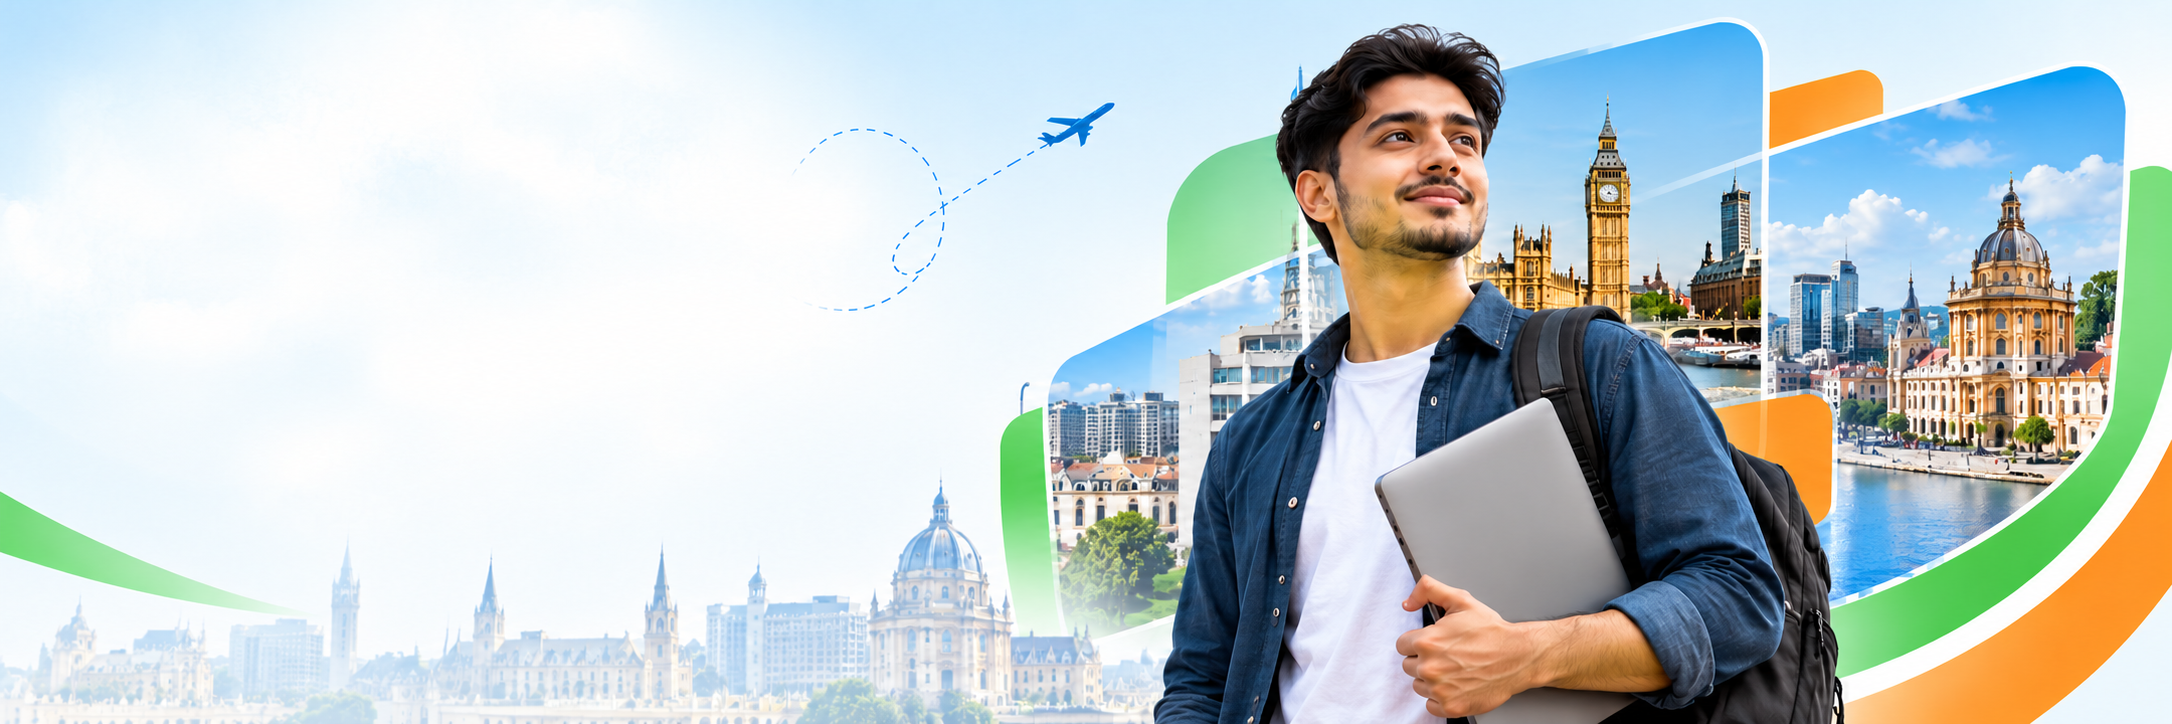
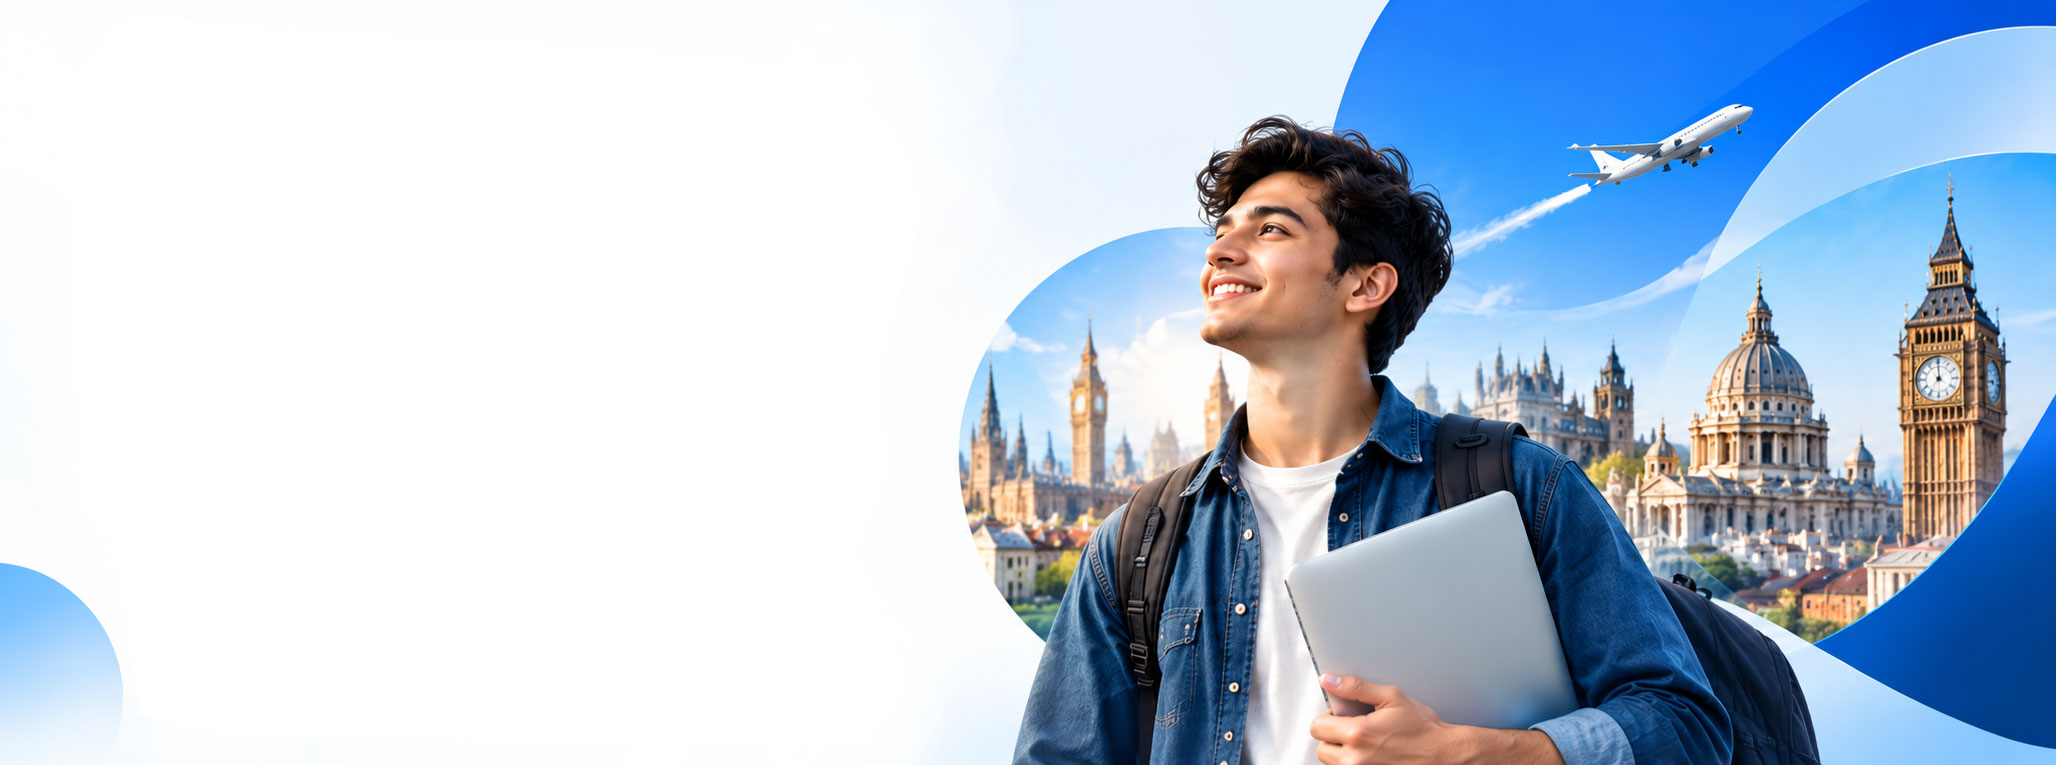
feat: Revamp Dream Destinations section UI
Refactor the Dream Destinations component to enhance its visual appeal and user experience. This includes:
- Updating the grid layout for better responsiveness across various screen sizes (2, 3, 4, and 6 columns).
- Improving the styling of individual destination cards by changing them from a div with a nested link to a direct Link component.
- Adjusting image sizing and hover effects for a more dynamic feel.
- Modifying text colors and shadow properties to align with the new design.
- Replacing the placeholder `Hero.png` with a more appropriate image in the public directory to reflect the new design.
- Introducing a new gradient overlay for destination cards for improved readability of text on images.
- Removing the "View Courses" button to simplify the card design and focus on the destination itself.

diff --git a/src/components/common/DreamDestinations.tsx b/src/components/common/DreamDestinations.tsx
@@ -131,72 +131,63 @@ export default function DreamDestinations() {
           </Link>
         </div>
 
-        <div className="mt-10 grid grid-cols-1 gap-6 sm:grid-cols-2 lg:grid-cols-3">
+        <div className="mt-10 grid grid-cols-2 gap-4 sm:grid-cols-3 lg:grid-cols-4 xl:grid-cols-6">
           {destinations.map((destination) => (
-            <div
+            <Link
               key={destination.slug}
-              className="group flex flex-col overflow-hidden rounded-2xl border border-[#ECECEC] bg-white shadow-sm transition-shadow hover:shadow-md"
+              href={`/countries/${destination.slug}`}
+              title={destination.description}
+              className="group relative block aspect-[4/3] overflow-hidden rounded-2xl shadow-sm transition-shadow hover:shadow-lg"
             >
-              <Link
-                href={`/countries/${destination.slug}`}
-                className="relative block aspect-[16/10] w-full overflow-hidden"
-              >
-                <Image
-                  src={destination.image}
-                  alt={`Study in ${destination.name}`}
-                  fill
-                  sizes="(max-width: 640px) 100vw, (max-width: 1024px) 50vw, 33vw"
-                  className="object-cover transition-transform duration-500 ease-out group-hover:scale-110"
-                />
-                <div className="absolute inset-0 bg-gradient-to-t from-black/60 via-black/10 to-transparent" />
-                <span className="absolute bottom-3 left-4 flex items-center gap-2.5 text-sm font-semibold text-white sm:text-base">
-                  <span className="flex overflow-hidden rounded-[4px] shadow-md ring-2 ring-white/80">
-                    <ReactCountryFlag
-                      countryCode={destination.flagCode}
-                      svg
-                      title={destination.name}
-                      aria-label={`Flag of ${destination.name}`}
-                      style={{
-                        width: "1.75em",
-                        height: "1.3em",
-                        display: "block",
-                        objectFit: "cover",
-                      }}
-                    />
-                  </span>
-                  {destination.name}
+              <Image
+                src={destination.image}
+                alt={`Study in ${destination.name}`}
+                fill
+                sizes="(max-width: 640px) 50vw, (max-width: 1024px) 33vw, (max-width: 1280px) 25vw, 17vw"
+                className="object-cover transition-transform duration-500 ease-out group-hover:scale-110"
+              />
+              <div className="absolute inset-0 bg-gradient-to-t from-[#0F1B3D]/80 via-[#0F1B3D]/10 to-transparent" />
+              <span className="absolute bottom-3 left-3 flex items-center gap-2 text-sm font-semibold text-white sm:text-base">
+                <span className="flex overflow-hidden rounded-[3px] shadow-md ring-1 ring-white/80">
+                  <ReactCountryFlag
+                    countryCode={destination.flagCode}
+                    svg
+                    title={destination.name}
+                    aria-label={`Flag of ${destination.name}`}
+                    style={{
+                      width: "1.5em",
+                      height: "1.1em",
+                      display: "block",
+                      objectFit: "cover",
+                    }}
+                  />
                 </span>
-              </Link>
-
-              <div className="flex flex-1 flex-col justify-between p-5">
-                <p className="text-sm leading-relaxed text-[#6B6B6B]">
-                  {destination.description}
-                </p>
-
-                <Link
-                  href={`/courses?destination=${destination.slug}`}
-                  className="mt-4 inline-flex w-fit items-center gap-1 text-sm font-semibold text-[#1366E0] transition-colors hover:text-[#1B1B1B]"
-                >
-                  View Courses
-                  <svg
-                    width="14"
-                    height="14"
-                    viewBox="0 0 24 24"
-                    fill="none"
-                    className="shrink-0"
-                  >
-                    <path
-                      d="M5 12h14M13 6l6 6-6 6"
-                      stroke="currentColor"
-                      strokeWidth="2"
-                      strokeLinecap="round"
-                      strokeLinejoin="round"
-                    />
-                  </svg>
-                </Link>
-              </div>
-            </div>
+                {destination.name}
+              </span>
+            </Link>
           ))}
+
+          <div className="col-span-full flex items-center justify-center gap-4 rounded-2xl bg-[#EEF5FE] px-6 py-6">
+            <svg
+              width="40"
+              height="40"
+              viewBox="0 0 24 24"
+              fill="none"
+              className="shrink-0 text-[#1366E0]"
+              aria-hidden
+            >
+              <circle cx="12" cy="12" r="9" stroke="currentColor" strokeWidth="1.6" />
+              <path
+                d="M3 12h18M12 3c2.5 2.5 3.8 5.5 3.8 9s-1.3 6.5-3.8 9c-2.5-2.5-3.8-5.5-3.8-9S9.5 5.5 12 3Z"
+                stroke="currentColor"
+                strokeWidth="1.6"
+                strokeLinejoin="round"
+              />
+            </svg>
+            <p className="text-base font-medium text-[#1366E0] sm:text-lg">
+              And expanding European and other destinations.
+            </p>
+          </div>
         </div>
       </div>
     </section>

diff --git a/src/views/home/HeroHome.tsx b/src/views/home/HeroHome.tsx
@@ -35,9 +35,10 @@ export default function HeroHome() {
           />
         </div>
 
-        {/* Text sits on the empty sky area on the left of the image */}
-        <div className="relative z-10 order-1 px-6 pt-14 pb-8 sm:px-10 lg:w-[46%] lg:py-14 lg:pl-[5%] lg:pr-0">
-          <div>
+        {/* Text sits on the empty sky area on the left of the image; same px-4 + container as the header so the left edges line up */}
+        <div className="relative z-10 order-1 w-full px-4 pt-14 pb-8 lg:py-14">
+          <div className="mx-auto container">
+          <div className="lg:max-w-[46%]">
             <h1 className="text-[2rem] font-bold leading-[1.15] tracking-tight text-[#0F1B3D] sm:text-5xl lg:text-[clamp(2rem,3vw,4rem)]">
               {headline.map((line, i) => (
                 <span
@@ -87,42 +88,6 @@ export default function HeroHome() {
               and personalised support to make global education more accessible.
             </p>
 
-            {/* Experience badge */}
-            <div
-              className="mt-6 inline-flex items-center gap-3 rounded-2xl border border-white/70 bg-white/70 px-4 py-3 shadow-md shadow-[#1366E0]/10 backdrop-blur-sm animate-[heroFadeUp_0.8s_ease-out_both] motion-reduce:animate-none lg:mt-[1.6vw]"
-              style={{ animationDelay: "600ms" }}>
-              <span className="grid h-11 w-11 shrink-0 place-items-center rounded-full bg-[#1366E0] text-white">
-                <svg
-                  width="22"
-                  height="22"
-                  viewBox="0 0 24 24"
-                  fill="none"
-                  aria-hidden>
-                  <circle
-                    cx="12"
-                    cy="9"
-                    r="6"
-                    stroke="currentColor"
-                    strokeWidth="2"
-                  />
-                  <path
-                    d="M8.5 13.5 7 22l5-3 5 3-1.5-8.5"
-                    stroke="currentColor"
-                    strokeWidth="2"
-                    strokeLinejoin="round"
-                  />
-                </svg>
-              </span>
-              <span className="leading-tight">
-                <span className="block text-2xl font-bold text-[#0F1B3D]">
-                  5+ Years
-                </span>
-                <span className="block text-sm font-medium text-[#3B4660]">
-                  Experience
-                </span>
-              </span>
-            </div>
-
             <div
               className="mt-7 flex flex-col gap-3 animate-[heroFadeUp_0.8s_ease-out_both] motion-reduce:animate-none sm:flex-row sm:flex-wrap lg:mt-[1.8vw]"
               style={{ animationDelay: "750ms" }}>
@@ -147,10 +112,11 @@ export default function HeroHome() {
               </Link>
               <Link
                 href="/recruitment-partner"
-                className="inline-flex items-center justify-center rounded-full border-2 border-[#1366E0] bg-white/80 px-6 py-3 text-sm font-semibold text-[#1366E0] backdrop-blur-sm transition-all duration-300 hover:-translate-y-0.5 hover:bg-[#1366E0] hover:text-white hover:shadow-lg focus:outline-none focus-visible:ring-2 focus-visible:ring-[#1366E0] focus-visible:ring-offset-2">
+                className="inline-flex items-center justify-center rounded-full bg-[#1366E0] px-6 py-3 text-sm font-semibold text-white shadow-md shadow-[#1366E0]/25 transition-all duration-300 hover:-translate-y-0.5 hover:bg-[#0F55BE] hover:shadow-lg focus:outline-none focus-visible:ring-2 focus-visible:ring-[#1366E0] focus-visible:ring-offset-2">
                 Join as a Recruitment Partner
               </Link>
             </div>
+          </div>
           </div>
         </div>
       </div>

diff --git a/src/views/home/VisionTargets.tsx b/src/views/home/VisionTargets.tsx
@@ -33,6 +33,14 @@ const targets: Target[] = [
       <path d="M16 11a3 3 0 1 0 0-6 3 3 0 0 0 0 6Zm-8 0a3 3 0 1 0 0-6 3 3 0 0 0 0 6Zm0 2c-2.7 0-8 1.3-8 4v3h10v-3c0-1.1.4-2.1 1.2-2.9A11 11 0 0 0 8 13Zm8 0c-.3 0-.7 0-1.1.1 1.2.9 2.1 2.1 2.1 3.9v3h7v-3c0-2.7-5.3-4-8-4Z" />
     ),
   },
+  {
+    value: "10+",
+    label: "Years Experience",
+    color: "#8B3DD1",
+    icon: (
+      <path d="M12 1a7 7 0 0 0-4 12.74V23l4-2.4 4 2.4v-9.26A7 7 0 0 0 12 1Zm0 2a5 5 0 1 1 0 10 5 5 0 0 1 0-10Zm-2 12.73a7 7 0 0 0 4 0v3.74l-2-1.2-2 1.2v-3.74Z" />
+    ),
+  },
 ];
 
 export default function VisionTargets() {
@@ -50,7 +58,7 @@ export default function VisionTargets() {
           </h2>
         </div>
 
-        <div className="mx-auto mt-12 grid max-w-4xl grid-cols-1 gap-5 sm:grid-cols-3 sm:gap-6">
+        <div className="mx-auto mt-12 grid max-w-6xl grid-cols-1 gap-5 sm:grid-cols-2 sm:gap-6 lg:grid-cols-4">
           {targets.map((t) => (
             <div
               key={t.label}

diff --git a/src/views/home/LatestBlogs.tsx b/src/views/home/LatestBlogs.tsx
@@ -40,7 +40,7 @@ export default function LatestBlogs() {
   };
 
   return (
-    <section className="w-full bg-[#FFFEFA] px-6 py-20">
+    <section className="w-full bg-[#FFFEFA] px-6">
       <div className="mx-auto container">
         <div className="flex flex-col items-start justify-between gap-4 sm:flex-row sm:items-center">
           <div>
